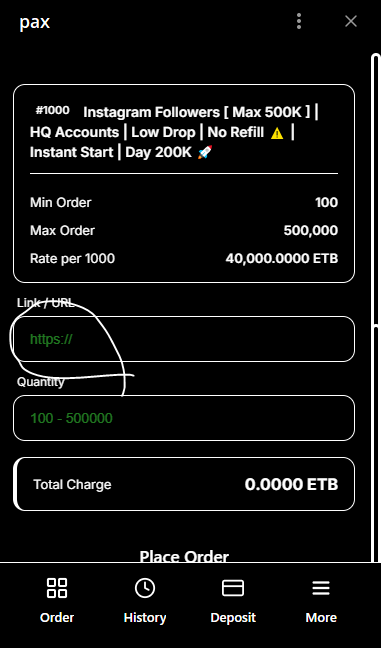
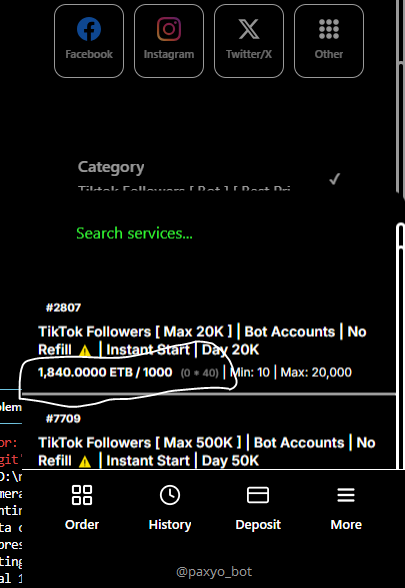
asdasdasopo

diff --git a/server/check_settings.js b/server/check_settings.js
@@ -1,14 +1,17 @@
 import pool from './config/database.js';
 
-async function checkSettings() {
+async function check() {
     try {
-        const [rows] = await pool.execute('SELECT * FROM settings');
-        console.log('Settings:', rows);
+        const [rows] = await pool.execute('SELECT * FROM service_custom WHERE service_id = 2807');
+        console.log('Service 2807 custom settings:', rows);
+        
+        const [settings] = await pool.execute('SELECT * FROM settings WHERE setting_key = "rate_multiplier"');
+        console.log('Rate multiplier:', settings);
+    } catch (e) {
+        console.error(e);
+    } finally {
         process.exit(0);
-    } catch (err) {
-        console.error(err);
-        process.exit(1);
     }
 }
 
-checkSettings();
+check();